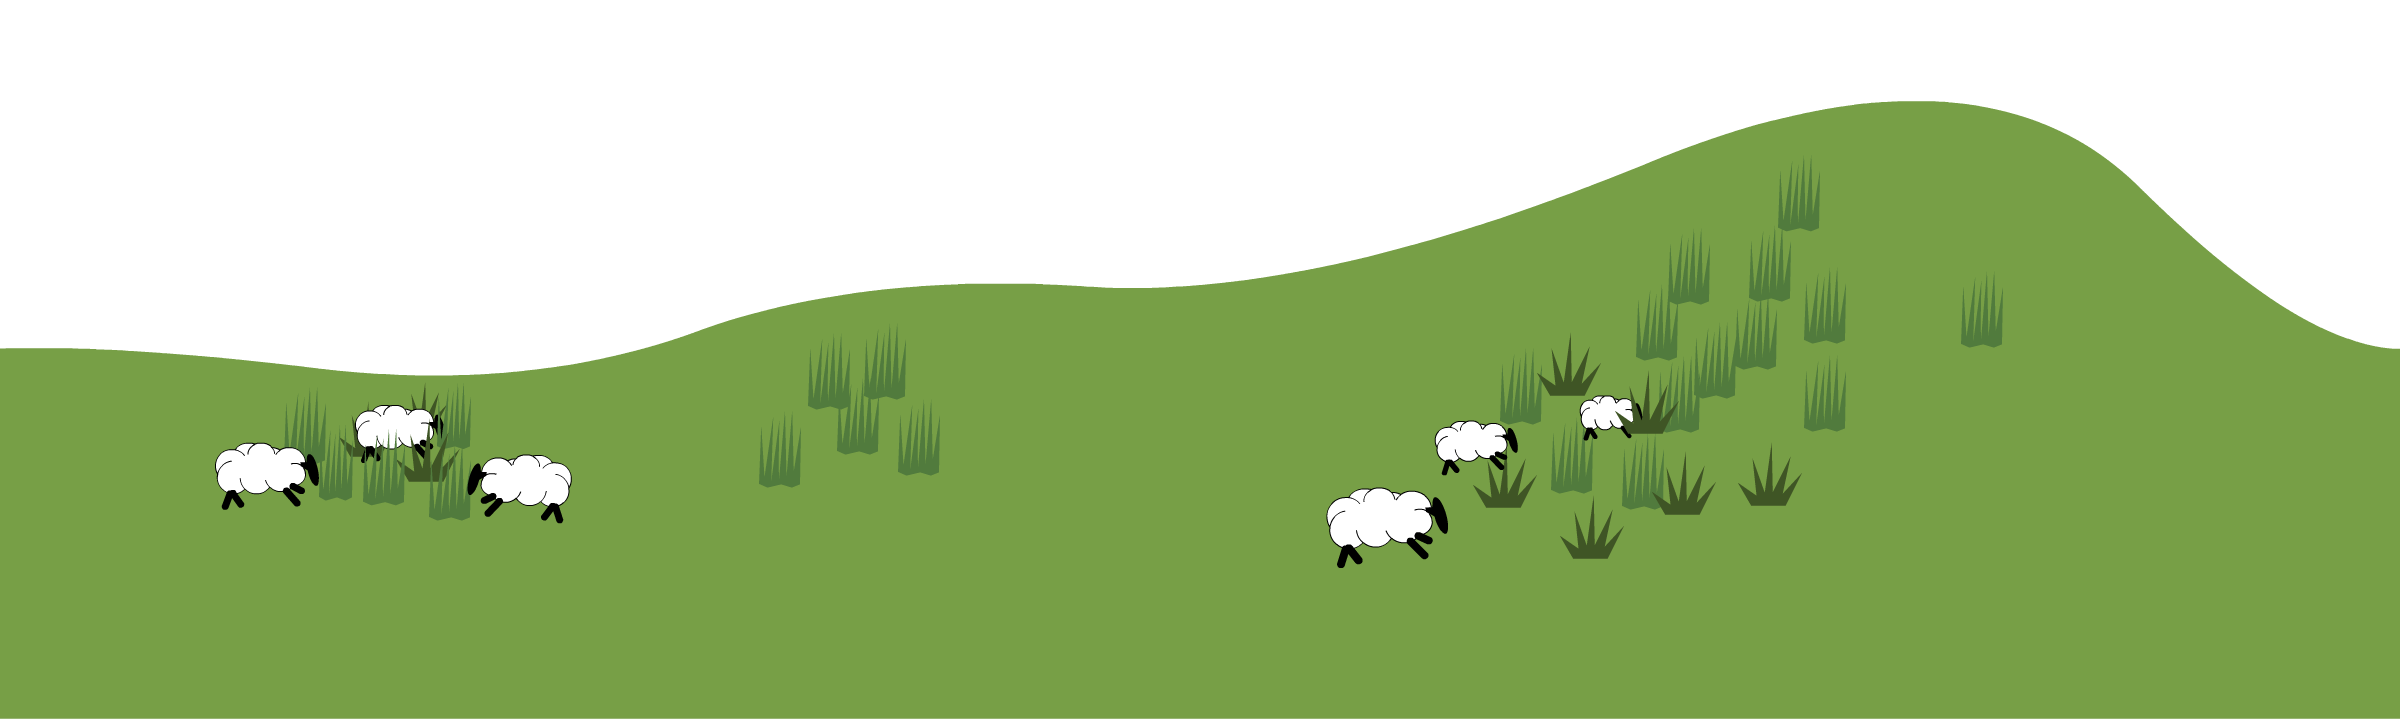
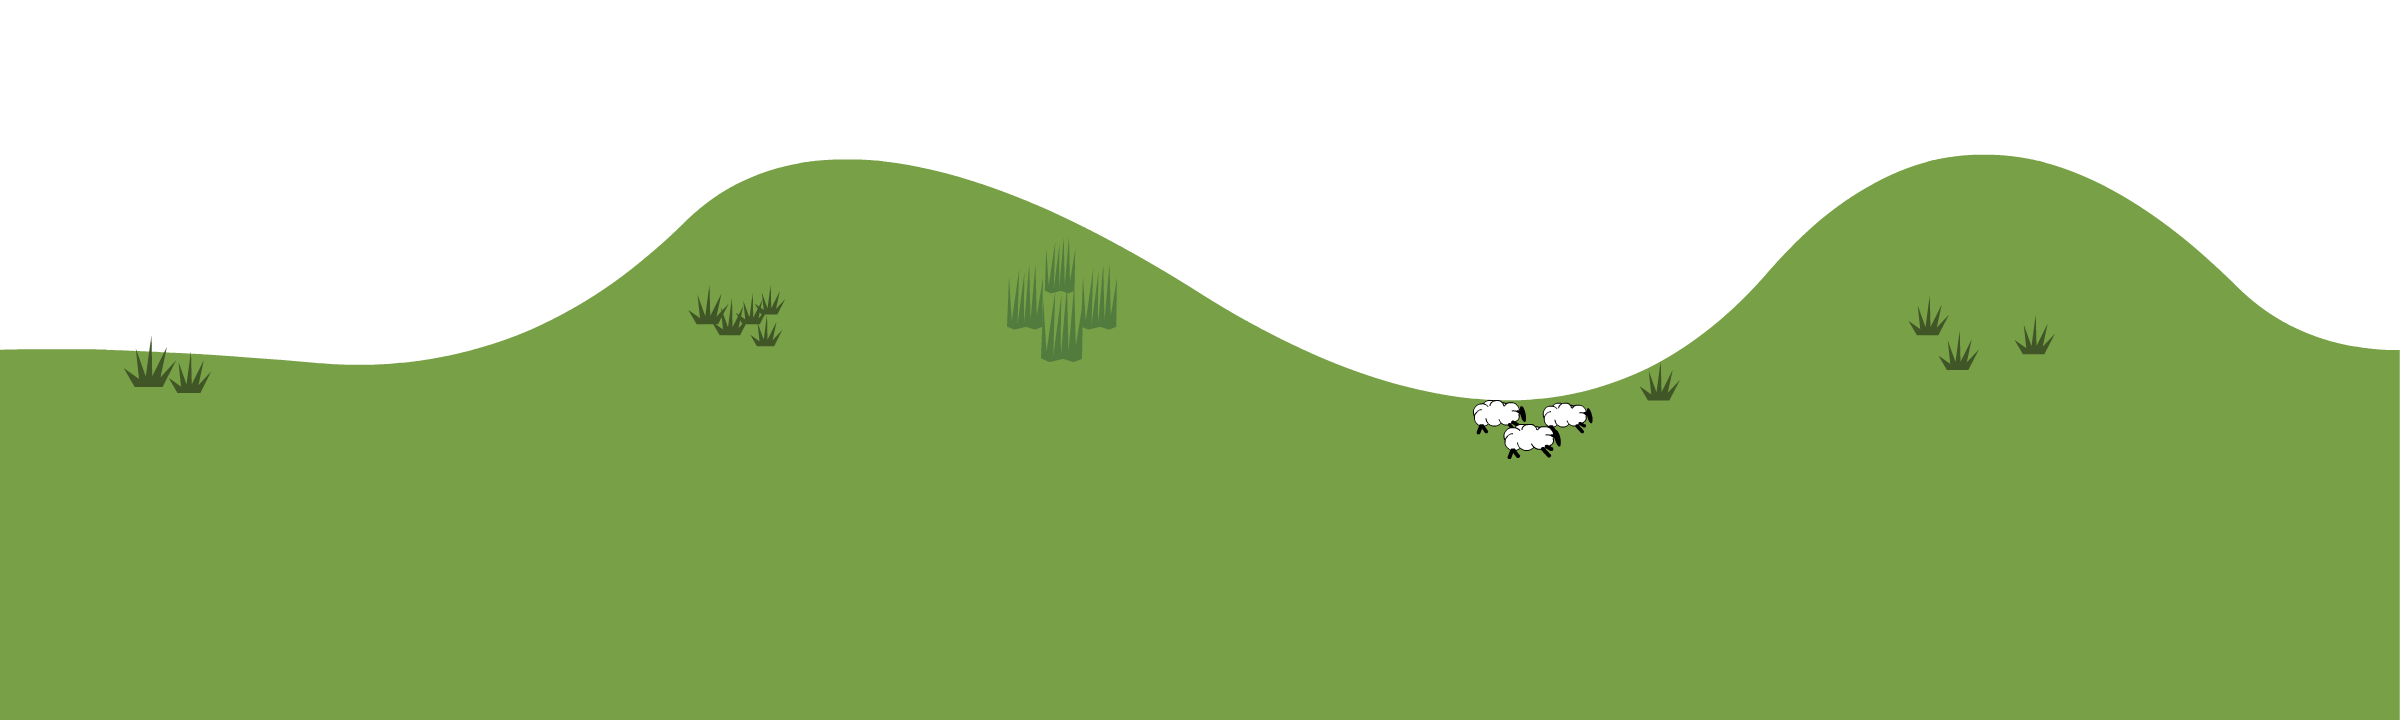
added new layer for hills, and a new class for it

diff --git a/src/game/MainState.java b/src/game/MainState.java
@@ -22,7 +22,7 @@ public class MainState extends BasicGameState {
     private Image skyimage;
 
     /*the scrollable foreground and backgrounds*/
-    private ScrollingHandler frontground, background;
+    private ScrollingHandler frontlayer, midlayer, backlayer;
 
     /*the balloon*/
     Balloon balloon;
@@ -35,13 +35,20 @@ public class MainState extends BasicGameState {
     @Override
     public void init(GameContainer gameContainer, StateBasedGame stateBasedGame) throws SlickException {
 
-        frontground = new ScrollingHandler("frontground", new GreenHills(0.0f,0,true,1)); //create front collidable scrollable
-        frontground.add(new GreenHills(0.0f,0,true,1)); //add more map to the front scrollable
+        frontlayer = new ScrollingHandler("frontground", new GreenHills(0.0f,0,true,1)); //create front collidable scrollable
+        frontlayer.add(new GreenHills(0.0f, 0, true, 1)); //add more map to the front scrollable
 
-        background = new ScrollingHandler("background", new BackHills(0.0f,0,false,1)); //create front collidable scrollable
-        background.add(new BackHills(0.0f,0,false,2)); //add more map to the front scrollable
-        background.add(new BackHills(0.0f,0,false,3)); //add more map to the front scrollable
-        background.add(new BackHills(0.0f,0,false,4)); //add more map to the front scrollable
+        midlayer = new ScrollingHandler("midlayer", new SecondHills(0.0f,0,false,1));
+        midlayer.add(new SecondHills(0.0f,0,false,2));
+        midlayer.add(new SecondHills(0.0f,0,false,3));
+        midlayer.add(new SecondHills(0.0f,0,false,4));
+
+        backlayer = new ScrollingHandler("background", new BackHills(0.0f,0,false,1)); //create back non collidable scrollable
+        backlayer.add(new BackHills(0.0f, 0, false, 2)); //add more map to the back scrollable
+        backlayer.add(new BackHills(0.0f, 0, false, 3)); //add more map to the back scrollable
+        backlayer.add(new BackHills(0.0f, 0, false, 4)); //add more map to the back scrollable
+
+
 
         balloon = new Balloon(280, 100);      //initialize the balloon
 
@@ -52,19 +59,23 @@ public class MainState extends BasicGameState {
     @Override
     public void render(GameContainer gameContainer, StateBasedGame stateBasedGame, Graphics graphics) throws SlickException {
         skyimage.draw(0, 0, MainGame.SCREEN_WIDTH, MainGame.SCREEN_HEIGHT);
-        background.render();
-        frontground.render();   //render the frontground scrollables
+
+        /*render the scrollable layers*/
+        backlayer.render();
+        midlayer.render();
+        frontlayer.render();
 
         balloon.render();      //render the balloon
 
         balloon.printStats(graphics, 400, 0);   //error checking, print stats of ballon
-        frontground.printStats(graphics, 200, 0, balloon);  //error checking of frontground scrollable
+        frontlayer.printStats(graphics, 200, 0, balloon);  //error checking of frontground scrollable
     }
 
     @Override
     public void update(GameContainer gameContainer, StateBasedGame stateBasedGame, int delta) throws SlickException {        float deltaTime = delta /1000;
-        backgroundMove(background, deltaTime-2, 0);
-        backgroundMove(frontground, deltaTime-5, 0); //update the front scrollable
+        backgroundMove(backlayer, deltaTime-1, 0);
+        backgroundMove(midlayer, deltaTime-2, 0);
+        backgroundMove(frontlayer, deltaTime-4, 0); //update the front scrollable
         balloon.update(gameContainer, delta);   //update the balloon
 
     }

diff --git a/src/scrollables/SecondHills.java b/src/scrollables/SecondHills.java
@@ -1,0 +1,35 @@
+package scrollables;
+
+import org.newdawn.slick.Image;
+import org.newdawn.slick.SlickException;
+import graphic.*;
+
+
+/**
+ * Created with IntelliJ IDEA.
+ * User: user360
+ * Date: 28/01/14
+ * Time: 12:38 PM
+ * To change this template use File | Settings | File Templates.
+ */
+public class SecondHills extends Background {
+
+    public SecondHills(float x, float y, boolean collidable, int type) throws SlickException {
+        super(x, y, "data/image/backgrounds/Hills2a.png", collidable);
+
+        if(type==1) {
+            this.setImage("data/image/backgrounds/Hills2a.png");
+        }
+        if(type==2) {
+            this.setImage("data/image/backgrounds/Hills2b.png");
+        }
+        if(type==3) {
+            this.setImage("data/image/backgrounds/Hills2c.png");
+        }
+        if(type==4) {
+            this.setImage("data/image/backgrounds/Hills2d.png");
+        }
+
+    }
+
+}

diff --git a/src/game/MainGame.java b/src/game/MainGame.java
@@ -34,7 +34,7 @@ public class MainGame extends StateBasedGame {
     public static void main(String[] args) throws SlickException {
         AppGameContainer app = new AppGameContainer(new MainGame());
         app.setDisplayMode(SCREEN_WIDTH, SCREEN_HEIGHT, false);
-        app.setVSync(Game.VSYNC);
+       // app.setVSync(Game.VSYNC);
         app.setShowFPS(Game.DEBUG.SHOW_FPS);
         app.start();
     }

diff --git a/src/scrollables/BackHills.java b/src/scrollables/BackHills.java
@@ -15,7 +15,7 @@ import graphic.*;
 public class BackHills extends Background {
 
     public BackHills(float x, float y, boolean collidable, int type) throws SlickException {
-        super(x, y, "data/image/backgrounds/Hills1a.png", false);
+        super(x, y, "data/image/backgrounds/Hills1a.png", collidable);
 
         if(type==1) {
             this.setImage("data/image/backgrounds/Hills1a.png");

diff --git a/src/Handlers/ScrollingHandler.java b/src/Handlers/ScrollingHandler.java
@@ -102,7 +102,7 @@ public class ScrollingHandler {
             renderlist.get(1).move(moveX, moveY);
         }
 
-        if(renderlist.get(0).getX() == -2600.0) {
+        if(renderlist.get(0).getX() <= -2600.0) {
             renderlist.remove(0);
         }
 
